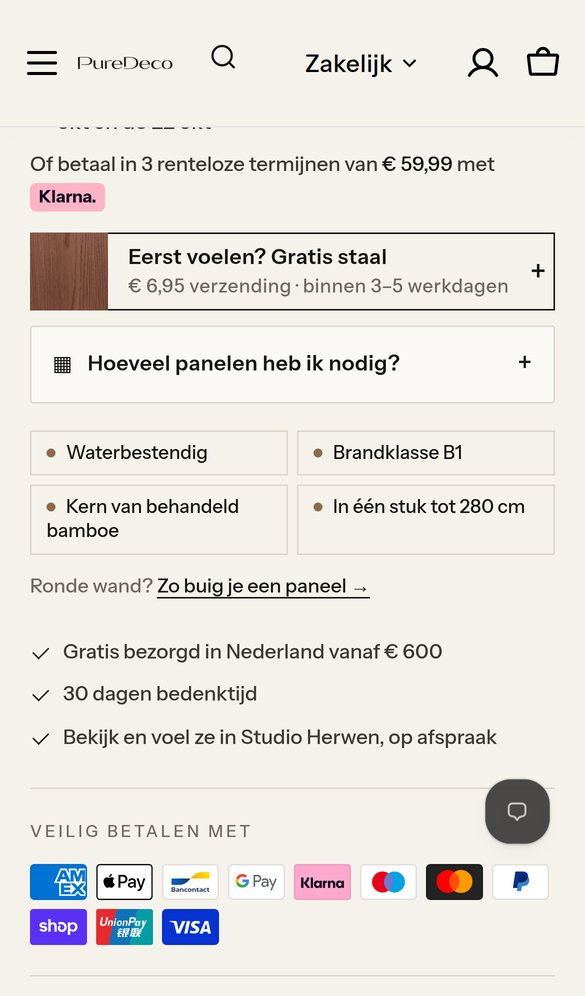
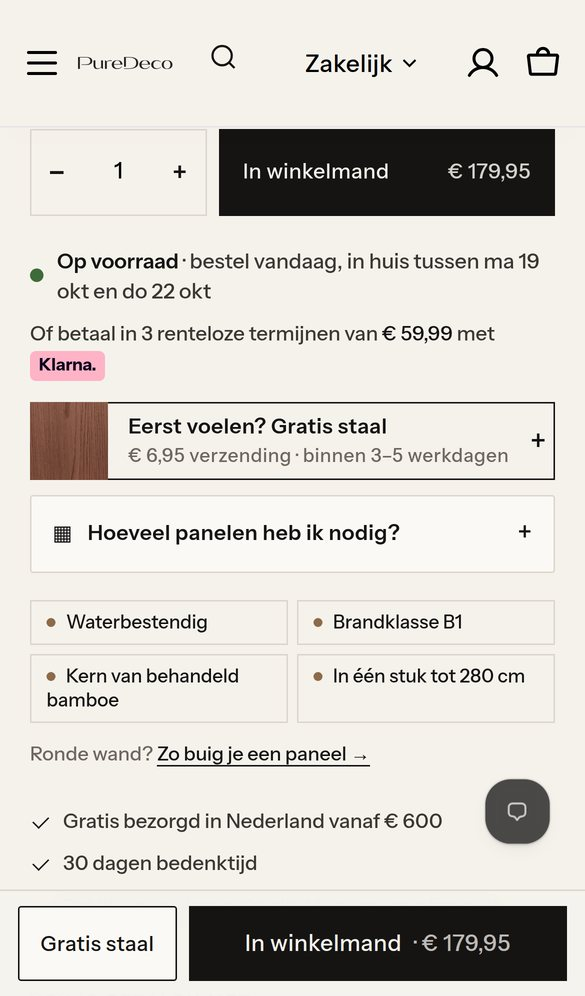
Artboard productpagina mobiel: vaste koopbalk en finishtekening bij alle opties
Alleen ontwerp; geen wijzigingen in thema of winkel.

Claude-Session: https://claude.ai/code/session_01Tr9HDAqx5rbsuHBhnEqEEG

Changed region(s): [[0.0308, 0.1245, 0.9538, 0.7781], [0.0308, 0.8092, 0.9846, 0.996], [0.8923, 0.5291, 0.9231, 0.5602]]

diff --git a/docs/ontwerp-puredeco-finish/ProductpaginaMobiel.html b/docs/ontwerp-puredeco-finish/ProductpaginaMobiel.html
@@ -28,7 +28,7 @@ p,li{font-size:14.5px;line-height:1.7;color:#3A3733}
 .badge{display:inline-block;font-size:10.5px;letter-spacing:.14em;text-transform:uppercase;padding:3px 8px;background:#151413;color:#F5F2EC;margin-bottom:8px}
 .badge.g{background:#2F6B4F}.badge.r{background:#9B3D2E}
 .rec{outline:3px solid #2F6B4F;outline-offset:14px}
-.base{display:grid;grid-template-columns:repeat(4,1fr);gap:14px;margin-top:20px}
+.base{display:grid;grid-template-columns:repeat(5,1fr);gap:14px;margin-top:20px}
 .b{background:#fff;border:1px solid #DDD6CA;padding:14px 16px}
 .b b{display:block;font-size:14.5px;margin-bottom:3px}.b p{margin:0;font-size:13px;line-height:1.55}
 table{border-collapse:collapse;width:100%;margin-top:18px;background:#fff;border:1px solid #DDD6CA}
@@ -58,11 +58,12 @@ tr.g td{background:#F1F6F2}
 <!-- ============ BASIS ============ -->
 <div class="sec">
 <p class="k">Geldt voor alle drie de opties</p>
-<h2>Eerst de basis: meer product, minder ballast</h2>
+<h2>Eerst de basis: meer product, minder ballast, altijd een knop</h2>
 <div class="base">
+ <div class="b" style="border-color:#2F6B4F;border-width:2px"><b>Vaste koopbalk</b><p>Vanaf de eerste seconde staat onderin "Gratis staal" en "In winkelmand · € …". Het bedrag rekent mee met het aantal. De chatknop staat erboven. Bij alle drie de opties.</p></div>
  <div class="b"><b>Compacte kop op de productpagina</b><p>De zoekbalk wordt een zoekicoon naast de winkelmand. Het kruimelpad verdwijnt op mobiel, maar blijft voor Google in de pagina staan. De kop verdwijnt bij omlaag scrollen en komt terug bij omhoog scrollen.</p></div>
  <div class="b"><b>Foto vierkant</b><p>De foto wordt 1:1 in plaats van 4:5. De sfeer blijft, maar naam en prijs schuiven het eerste scherm in.</p></div>
- <div class="b"><b>Finishkaarten compact</b><p>Een klein staaltje met de naam en "8 mm · klik · naadloos*". De voetnoot blijft, korter. De lange teksten staan al verderop in de specificaties.</p></div>
+ <div class="b"><b>Finishkaarten zoals in H1-test</b><p>Het staaltje met de tekening eronder blijft: klik · naadloos (Signature) en stomp · zichtbare naad (Linea). Alleen de lange zin onder de kaart gaat weg. Die staat al in de specificaties.</p></div>
  <div class="b"><b>Fouten eruit</b><p>De knop staat weer volledig in beeld. De melding "Ontvang een melding…" verschijnt alleen bij uitverkocht. De chatknop staat hoger en is kleiner. Het grote blok "Welke Puredeco Finish past" verdwijnt.</p></div>
 </div>
 </div>
@@ -71,20 +72,20 @@ tr.g td{background:#F1F6F2}
 <div class="sec">
 <div class="opt">
  <div>
-  <span class="badge">Optie D</span><h2>Direct: kiezen en bestellen in één scherm</h2>
+  <span class="badge">Optie D</span><h2>Direct: zo kort mogelijk</h2>
   <div class="phones" style="margin-top:14px">
-   <div class="ph"><div class="f"><img src="pdpm/D-s1.jpg"></div><p class="c"><b>Scherm 1.</b> Foto groter in beeld, zonder zoekbalk en kruimelpad.</p></div>
-   <div class="ph"><div class="f"><img src="pdpm/D-s2.jpg"></div><p class="c"><b>Direct onder de foto:</b> naam, prijs, finish, formaat en de knop "In winkelmand € 179,95" in één scherm.</p></div>
-   <div class="ph"><div class="f"><img src="pdpm/D-s3.jpg"></div><p class="c"><b>Daarna:</b> levertijd, Klarna, gratis staal, de calculator achter "Hoeveel panelen heb ik nodig? +", de vier sterke punten en de zekerheden.</p></div>
+   <div class="ph"><div class="f"><img src="pdpm/D-s1.jpg"></div><p class="c"><b>Scherm 1.</b> Foto groter in beeld, zonder zoekbalk en kruimelpad. De koopbalk staat er al.</p></div>
+   <div class="ph"><div class="f"><img src="pdpm/D-s2.jpg"></div><p class="c"><b>Direct onder de foto:</b> naam, prijs en de finishkaarten met de tekening van klik en stompe naad.</p></div>
+   <div class="ph"><div class="f"><img src="pdpm/D-s3.jpg"></div><p class="c"><b>Daarna:</b> formaat, aantal en knop, levertijd, Klarna, gratis staal, de calculator achter "Hoeveel panelen heb ik nodig? +" en de vier sterke punten.</p></div>
   </div>
  </div>
  <div class="side">
-  <div class="metric"><div class="m"><b>1,6</b><span>schermen tot de knop (nu 3,7)</span></div><div class="m"><b>1.077 px</b><span>knop vanaf boven (nu 2.454)</span></div></div>
+  <div class="metric"><div class="m"><b>Altijd</b><span>knop in beeld via de koopbalk</span></div><div class="m"><b>1.190 px</b><span>knop in de pagina (nu 2.454)</span></div></div>
   <p class="k">Voor wie</p>
   <p style="margin:4px 0 0">Bezoekers uit een advertentie of Google Shopping die al op dit decor klikken. Zij weten wat ze willen en moeten zonder zoeken kunnen bestellen.</p>
   <p class="k" style="margin-top:14px">Wat er gebeurt</p>
   <ul><li>De volgorde is: finish → formaat → aantal + knop → levertijd</li><li>De calculator klapt in, met één tik open</li><li>De vier labels staan in een rustig blok van 2 × 2 onder de knop</li></ul>
-  <div class="why"><p class="k">Commercieel</p><p>Hoe sneller de knop, hoe minder afhakers. Het kortste pad, en het minste werk om te bouwen.</p></div>
+  <div class="why"><p class="k">Commercieel</p><p>De kortste pagina: wie weet wat hij wil, ziet niets dat hem afleidt. Het minste werk om te bouwen.</p></div>
  </div>
 </div>
 </div>
@@ -93,43 +94,42 @@ tr.g td{background:#F1F6F2}
 <div class="sec">
 <div class="opt">
  <div>
-  <span class="badge">Optie E</span><h2>Per wand: de klant bestelt meteen de hele wand</h2>
+  <span class="badge g">Optie E · advies</span><h2>Per wand: de klant bestelt meteen de hele wand</h2>
   <div class="phones" style="margin-top:14px">
-   <div class="ph"><div class="f"><img src="pdpm/E-s1.jpg"></div><p class="c"><b>Scherm 1.</b> Zelfde compacte start als D.</p></div>
-   <div class="ph"><div class="f"><img src="pdpm/E-s2.jpg"></div><p class="c"><b>Onder de foto:</b> naam, prijs, finish en formaat. Daaronder direct "Jouw wand".</p></div>
-   <div class="ph"><div class="f"><img src="pdpm/E-s3.jpg"></div><p class="c"><b>Na invullen van 4,80 × 2,60 m:</b> 4 panelen, 12,5 m², totaal € 719,80, en "Gratis bezorgd in Nederland". De knop zegt "In winkelmand € 719,80". De tekening klapt open via "Bekijk de indeling".</p></div>
+   <div class="ph"><div class="f"><img src="pdpm/E-s1.jpg"></div><p class="c"><b>Scherm 1.</b> Zelfde compacte start als D, met de koopbalk.</p></div>
+   <div class="ph"><div class="f"><img src="pdpm/E-s2.jpg"></div><p class="c"><b>Onder de foto:</b> naam, prijs en de finishkaarten met tekening. Daarna formaat en direct "Jouw wand".</p></div>
+   <div class="ph"><div class="f"><img src="pdpm/E-s3.jpg"></div><p class="c"><b>Na invullen van 4,80 × 2,60 m:</b> 4 panelen, 12,5 m², totaal € 719,80, en "Gratis bezorgd in Nederland". Zowel de knop als de koopbalk zeggen "In winkelmand € 719,80". De tekening van de wand klapt open via "Bekijk de indeling".</p></div>
   </div>
  </div>
  <div class="side">
-  <div class="metric"><div class="m"><b>2,1</b><span>schermen tot de knop</span></div><div class="m"><b>€ 719,80</b><span>in de knop na invullen, in plaats van € 179,95</span></div></div>
+  <div class="metric"><div class="m"><b>Altijd</b><span>knop in beeld via de koopbalk</span></div><div class="m"><b>€ 719,80</b><span>in de koopbalk na invullen, in plaats van € 179,95</span></div></div>
   <p class="k">Voor wie</p>
   <p style="margin:4px 0 0">Iedereen die een wand gaat doen. Dat is bijna elke koper: niemand koopt één paneel.</p>
   <p class="k" style="margin-top:14px">Wat er gebeurt</p>
   <ul><li>De calculator wordt compact: twee maten, en daaronder panelen, m² en totaal</li><li>De tekening en uitleg klappen in</li><li>Het aantal en het bedrag in de knop rekenen mee. Dat doet de calculator nu ook al</li><li>Onder € 600 staat er: "Nog € … tot gratis bezorging". Ook dat zit er al in</li></ul>
-  <div class="why"><p class="k">Commercieel</p><p>De hoogste orderwaarde. De klant ziet zijn wand en totaalprijs vóór de knop en bestelt alles in één keer. Minder kans op te weinig panelen en een nabestelling.</p></div>
+  <div class="why"><p class="k">Commercieel · waarom dit mijn advies is</p><p>De hoogste orderwaarde, en met de vaste koopbalk erbij is de knop toch altijd één tik. De klant ziet zijn wand en totaalprijs vóór de knop en bestelt alles in één keer. Minder kans op te weinig panelen en een nabestelling.</p></div>
  </div>
 </div>
 </div>
 
 <!-- ============ F ============ -->
-<div class="sec rec">
+<div class="sec">
 <div class="opt">
  <div>
-  <span class="badge g">Optie F · advies</span><h2>Vaste koopbalk: staal en winkelmand altijd binnen duimbereik</h2>
+  <span class="badge">Optie F</span><h2>Compleet: alles open, de koopbalk doet het werk</h2>
   <div class="phones" style="margin-top:14px">
-   <div class="ph"><div class="f"><img src="pdpm/F-s1.jpg"></div><p class="c"><b>Vanaf de eerste seconde</b> staat onderin "Gratis staal" en "In winkelmand · € 179,95".</p></div>
-   <div class="ph"><div class="f"><img src="pdpm/F-s2.jpg"></div><p class="c"><b>Onder de foto:</b> naam, prijs, compacte finish en formaat. De balk blijft staan.</p></div>
+   <div class="ph"><div class="f"><img src="pdpm/F-s1.jpg"></div><p class="c"><b>Scherm 1.</b> Zelfde start, met de koopbalk.</p></div>
+   <div class="ph"><div class="f"><img src="pdpm/F-s2.jpg"></div><p class="c"><b>Onder de foto:</b> naam, prijs en de finishkaarten met tekening. De balk blijft staan.</p></div>
    <div class="ph"><div class="f"><img src="pdpm/F-s3.jpg"></div><p class="c"><b>De volledige calculator met tekening blijft.</b> Omdat de knop altijd in beeld is, kost dat geen verkoop.</p></div>
   </div>
  </div>
  <div class="side">
-  <div class="metric"><div class="m"><b>0</b><span>scrollen nodig: de knop staat altijd in beeld</span></div><div class="m"><b>2</b><span>keuzes: staal of bestellen</span></div></div>
+  <div class="metric"><div class="m"><b>Altijd</b><span>knop in beeld via de koopbalk</span></div><div class="m"><b>1.916 px</b><span>knop in de pagina, na de hele calculator</span></div></div>
   <p class="k">Voor wie</p>
-  <p style="margin:4px 0 0">Zowel de directe koper als de twijfelaar. Wie bij een wand van € 700 eerst wil voelen, ziet het staal net zo prominent als de winkelmand.</p>
+  <p style="margin:4px 0 0">Wie graag alles op een rij ziet: de tekening van de wand staat meteen open.</p>
   <p class="k" style="margin-top:14px">Wat er gebeurt</p>
-  <ul><li>De bestaande koopbalk is er direct, niet pas na scrollen</li><li>Links "Gratis staal", rechts "In winkelmand" met het bedrag. Dat bedrag rekent mee met het aantal</li><li>De chatknop schuift boven de balk</li><li>Op de pagina blijft alles staan, alleen compacter: de calculator met tekening, de levertijd en de zekerheden</li></ul>
-  <div class="why"><p class="k">Commercieel</p><p>Een vaste koopbalk is een beproefd patroon in mobiele webwinkels. De koopbeslissing is op elk moment één tik. En het staal, de stap die bij Puredeco tot de verkoop leidt, staat er altijd naast.</p></div>
-  <p style="font-size:13px;margin-top:12px">Te combineren met de compacte calculator uit E.</p>
+  <ul><li>De volgorde is: finish → formaat → calculator met tekening → levertijd → knop</li><li>Dit lijkt het meest op de huidige pagina, maar dan met de basis en de koopbalk</li></ul>
+  <div class="why"><p class="k">Commercieel</p><p>Niets verdwijnt achter een tik. De pagina is wel het langst. Door de koopbalk kost dat geen verkoop, maar de rest van de pagina (staal, zekerheden) zakt verder weg.</p></div>
  </div>
 </div>
 </div>
@@ -138,17 +138,17 @@ tr.g td{background:#F1F6F2}
 <div class="sec">
 <h2>Naast elkaar</h2>
 <table>
- <tr><th></th><th>Knop "In winkelmand"</th><th>Gratis staal</th><th>Calculator</th><th>Sterk in</th></tr>
- <tr><td><b>Nu</b></td><td>2.454 px · 3,7 schermen · afgesneden</td><td>2.654 px</td><td>Open, 632 px, vóór de knop</td><td>–</td></tr>
- <tr><td><b>D · Direct</b></td><td>1.077 px · 1,6 schermen</td><td>1.259 px</td><td>Ingeklapt</td><td>Snelste route</td></tr>
- <tr><td><b>E · Per wand</b></td><td>≈ 1.410 px · 2,1 schermen</td><td>≈ 1.600 px</td><td>Compact, vóór de knop, tekening ingeklapt</td><td>Hoogste orderwaarde</td></tr>
- <tr class="g"><td><b>F · Vaste koopbalk</b></td><td>Altijd in beeld</td><td>Altijd in beeld</td><td>Volledig, met tekening</td><td>Snel én compleet</td></tr>
+ <tr><th></th><th>Vaste koopbalk</th><th>Knop in de pagina</th><th>Finishkaarten</th><th>Calculator</th><th>Sterk in</th></tr>
+ <tr><td><b>Nu</b></td><td>Pas na scrollen</td><td>2.454 px · afgesneden</td><td>Met tekening, 359 px hoog</td><td>Open, 632 px, vóór de knop</td><td>–</td></tr>
+ <tr><td><b>D · Direct</b></td><td>Altijd</td><td>1.190 px</td><td>Met tekening</td><td>Ingeklapt</td><td>Kortste pagina</td></tr>
+ <tr class="g"><td><b>E · Per wand</b> (advies)</td><td>Altijd, met totaalbedrag</td><td>≈ 1.525 px</td><td>Met tekening</td><td>Compact, tekening ingeklapt</td><td>Hoogste orderwaarde</td></tr>
+ <tr><td><b>F · Compleet</b></td><td>Altijd</td><td>1.916 px</td><td>Met tekening</td><td>Volledig open</td><td>Alles in één keer zichtbaar</td></tr>
 </table>
 </div>
 
 <div class="ask">
  <p class="k">Graag jouw keuze</p>
- <ol><li>Optie D, E of F (advies: F, eventueel met de compacte calculator uit E)?</li><li>Akkoord met de basis: compacte kop op de productpagina, vierkante foto en compacte finishkaarten?</li><li>Akkoord dat het grote blok "Welke Puredeco Finish past" verdwijnt?</li></ol>
+ <ol><li>Optie D, E of F (advies: E)? De vaste koopbalk en de finishkaarten met tekening zitten in alle drie.</li><li>Akkoord met de basis: vaste koopbalk, compacte kop op de productpagina en vierkante foto?</li><li>Akkoord dat het grote blok "Welke Puredeco Finish past" verdwijnt?</li></ol>
  <p style="margin:6px 0 0">Na je akkoord bouw ik het in H1-test. Nu is er niets aangepast.</p>
 </div>
 </div></body></html>

diff --git a/tools/render/pdp_mobiel_simulatie.js b/tools/render/pdp_mobiel_simulatie.js
@@ -28,12 +28,10 @@ await p.evaluate((OPT)=>{
  .pdh__head{margin-bottom:0!important}.pdh__intro{display:none!important}
  .pdh__title{margin-bottom:4px!important}
  .pdh__finishes{display:grid!important;grid-template-columns:1fr 1fr!important;gap:8px!important}
- .pdh__finish{display:grid!important;grid-template-columns:52px minmax(0,1fr);gap:10px;align-items:center;padding:8px!important;min-height:0!important}
- .pdh__finish-swatch{width:52px!important;height:52px!important;aspect-ratio:auto!important;overflow:hidden;display:block!important;margin:0!important}
- .pdh__fs-sec{display:none!important}.pdh__fs-face{height:100%!important;width:100%!important;aspect-ratio:auto!important}
- .pdh__finish-badge,.pdh__finish-desc{display:none!important}
- .pdh__finish-text{padding:0!important;gap:2px!important}
- .pdh__finish-name{font-size:21px!important;line-height:1.1!important}
+ .pdh__fs-face{aspect-ratio:auto!important;height:78px!important}
+ .pdh__finish-desc{display:none!important}
+ .pdh__finish-text{gap:2px!important;padding-top:10px!important}
+ .pdh__finish-name{font-size:22px!important;line-height:1.1!important}
  .pdh__finish-spec{font-size:12px!important;line-height:1.35!important}
  .pdh__finish-note{font-size:11.5px!important;margin-top:6px!important;line-height:1.4!important}
  .pdh__opt{margin-bottom:14px!important}
@@ -44,7 +42,14 @@ await p.evaluate((OPT)=>{
  .sim-del{font-size:13px;line-height:1.45;margin:10px 0 0;color:#151413}
  .pdh__stock{margin:12px 0 0!important}
  .pdh__klarna{margin-top:8px!important}
+ .pdh__bar{transform:none!important;opacity:1!important;visibility:visible!important;display:grid!important;grid-template-columns:auto minmax(0,1fr);gap:8px;padding:10px 12px calc(10px + env(safe-area-inset-bottom))!important;align-items:stretch;height:auto!important}
+ .pdh__bar-name,.pdh__bar-price{display:none!important}
+ .sim-bsmp{border:1px solid #151413;background:#FBF9F5;color:#151413;font:inherit;font-size:14px;padding:0 14px;height:50px;white-space:nowrap}
+ .pdh__bar-cta{height:50px!important;width:100%!important;display:flex!important;align-items:center;justify-content:center;gap:8px;font-size:15px!important}
+ body{padding-bottom:72px}
  `; document.head.appendChild(css);
+ { const bar=$('.pdh__bar'); const bs=document.createElement('button'); bs.className='sim-bsmp'; bs.textContent='Gratis staal'; bar.prepend(bs);
+   bar.querySelector('.pdh__bar-cta').innerHTML='In winkelmand <span style="opacity:.75" class="sim-bt">· € 179,95</span>'; }
  const icons=$('.header__icons--right'); if(icons){const s=document.createElement('button');s.className='sim-search';s.setAttribute('aria-label','Zoeken');s.innerHTML='<svg width="22" height="22" viewBox="0 0 24 24" fill="none" stroke="currentColor" stroke-width="1.6"><circle cx="11" cy="11" r="7"/><path d="M20 20l-4-4"/></svg>';icons.prepend(s);}
  // kortere specs
  document.querySelectorAll('.pdh__finish').forEach(l=>{const sp=l.querySelector('.pdh__finish-spec'); if(l.dataset.finish==='sig') sp.textContent='8 mm · klik · naadloos*'; else sp.textContent='5 mm · stomp · zichtbare naad';});
@@ -77,28 +82,22 @@ await p.evaluate((OPT)=>{
    smp.after(chips); chips.style.marginTop='18px'; chips.after(bend);
  }
  if(OPT==='F'){
-   const st=document.createElement('style'); st.textContent=`
-    .pdh__bar{transform:none!important;opacity:1!important;visibility:visible!important;display:grid!important;grid-template-columns:auto minmax(0,1fr);gap:8px;padding:10px 12px calc(10px + env(safe-area-inset-bottom))!important;align-items:stretch;height:auto!important}
-    .pdh__bar-name,.pdh__bar-price{display:none!important}
-    .sim-bsmp{border:1px solid #151413;background:#FBF9F5;color:#151413;font:inherit;font-size:14px;padding:0 14px;height:50px;white-space:nowrap}
-    .pdh__bar-cta{height:50px!important;width:100%!important;display:flex!important;align-items:center;justify-content:center;gap:8px;font-size:15px!important}
-    body{padding-bottom:72px}`;
-   document.head.appendChild(st);
-   const bar=$('.pdh__bar'); const bs=document.createElement('button'); bs.className='sim-bsmp'; bs.textContent='Gratis staal'; bar.prepend(bs);
-   bar.querySelector('.pdh__bar-cta').innerHTML='In winkelmand <span style="opacity:.75">· € 179,95</span>';
    fmt.after(calc); calc.after(stock); stock.after(buy); buy.after(kl);
    form.after(smp); smp.style.marginTop='14px';
    smp.after(chips); chips.style.marginTop='18px'; chips.after(bend);
  }
 },OPT);
-if(OPT==='E'){ // klant vult wand in
-  await p.fill('[data-pdc-w]','4,80'); await p.fill('[data-pdc-h]','2,60'); await p.waitForTimeout(400);
-}
 await p.waitForTimeout(800);
 const m=await p.evaluate(()=>{const g=s=>{const e=document.querySelector(s);if(!e)return null;const r=e.getBoundingClientRect();return Math.round(r.top+scrollY)};
  return {media:g('.pdh__media'),mediaEnd:Math.round(document.querySelector('.pdh__media').getBoundingClientRect().bottom+scrollY),title:g('.pdh__title'),price:g('.pdh__price'),cta:g('.pdh__cta'),ctaH:Math.round(document.querySelector('.pdh__cta').getBoundingClientRect().height),ctaR:Math.round(document.querySelector('.pdh__cta').getBoundingClientRect().right),smp:g('.pdh-smp'),vh:innerHeight,cta_txt:document.querySelector('.pdh__cta').innerText.replace(/\s+/g,' ')}});
 console.log(OPT,JSON.stringify(m));
 await p.screenshot({path:`ms-${OPT}-full.png`,fullPage:true});
 const stops=OPT==="nu"?[0,640,1240,1840,2300]:[0, m.mediaEnd-140, m.mediaEnd-140+600];
-for(let i=0;i<stops.length;i++){ await p.evaluate(y=>window.scrollTo(0,y),stops[i]); await p.waitForTimeout(900); await p.screenshot({path:`ms-${OPT}-s${i+1}.png`}); }
+for(let i=0;i<stops.length;i++){
+  if(OPT==='E'&&i===2){ 
+  await p.fill('[data-pdc-w]','4,80'); await p.fill('[data-pdc-h]','2,60'); await p.waitForTimeout(400);
+  await p.evaluate(()=>{document.querySelector('.sim-bt').textContent='· '+document.querySelector('[data-pdh-total]').textContent;});
+
+    const y=await p.evaluate(()=>Math.round(document.querySelector('.pdc').getBoundingClientRect().top+scrollY)-60); stops[i]=y; }
+  await p.evaluate(y=>window.scrollTo(0,y),stops[i]); await p.waitForTimeout(900); await p.screenshot({path:`ms-${OPT}-s${i+1}.png`}); }
 await b.close();})();
